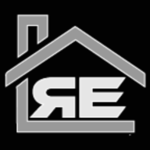
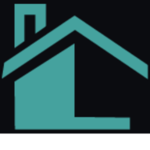
a bunch of styling changes

diff --git a/frontend/src/components/PublicGetStarted/Opening.js b/frontend/src/components/PublicGetStarted/Opening.js
@@ -71,7 +71,7 @@ class Opening extends Component {
                                         </div>
                                         <div className="col-12 col-lg-3 d-flex align-items-center justify-content-end px-0">
                                             
-                                               <button onClick={()=>this.submitStayInformedInformation()} className="btn-primary btn btn-block btn-lg btn-map">Submit</button>
+                                               <button onClick={()=>this.submitStayInformedInformation()} className="btn-main btn btn-block btn-lg btn-map">Submit</button>
 
                                         </div>
                                     </div>
@@ -91,7 +91,7 @@ class Opening extends Component {
                             <h2 className="mar-top mar-bottom">References</h2>
                             <p>Many things can be discovered about your neighborhood using online tools, but the personality, and the life style can't. And that 'feel' is critical to making a good home choice. You are key to helping people make good decisions about homes in your neighborhood. Be their insider, their neighborhood reference with insight into living, working and recreating where you live. You simply give of your time to answer questions and you get paid for helping. Sign up to get notified when we expand.</p>
                             <Link to="/PublicReference">
-                            <button className="btn btn-primary">Learn More
+                            <button className="btn btn-main">Learn More
                             </button>
                             </Link>
                         </div>
@@ -100,7 +100,7 @@ class Opening extends Component {
                             <h2 className="mar-top mar-bottom">Buyers</h2>
                             <p>Buying today typically happens after we read reviews or get references, but such is not the typical case in real estate. We think there is a better way to get quick confirmations about the intangible, qualitative characteristics of a neighborhood that are best discovered by talking to real people who live in your target neighborhood. That is what REBANDS delivers. Real people advising on real decisions so you can buy or rent with confidence. </p>
                             <Link to="/PublicBuyer">
-                            <button className="btn btn-primary">Learn More
+                            <button className="btn btn-main">Learn More
                             </button>
                             </Link>
                         </div>
@@ -109,7 +109,7 @@ class Opening extends Component {
                             <h2 className="mar-top mar-bottom">Sellers</h2>
                             <p>Sell your home in less time with less hassle to someone who is a good fit by providing neighborhood references who can give an arms length, independent perspective about your home and your neighborhood. The same approach exists today in job hiring. It is how good decisions are made and our platform makes it easy to invite your neighbors to become references. They will get paid and it costs you nothing. Sign up to got notified as we expand into your neighborhood.</p>
                             <Link to="/PublicSeller">
-                            <button className="btn btn-primary">Learn More
+                            <button className="btn btn-main">Learn More
                             </button>
                             </Link>
                         </div>

diff --git a/frontend/src/components/Shared/Nav.js b/frontend/src/components/Shared/Nav.js
@@ -5,7 +5,7 @@ import {getUserInfo, logout, getInformantInfo, getBuyerInfo} from '../../ducks/r
 import Modal from 'react-modal';
 import SignupFormValidation from './SignupFormValidation';
 
-import logo from './images/logo-greenish.png'
+import logo from './images/logo.png'
 
 import {getOrderResultsbyBuyer} from '../../ducks/reducers/order';
 
@@ -78,7 +78,7 @@ class Nav extends Component {
                 <nav className="navbar navbar-expand-lg navbar-dark nav-container transparent-nav">
 
                     <div className="container-fluid body">
-                        <Link to={"/"}><img className="logo img-responsive" src={logo} alt="RE Informants"/></Link>
+                        <Link to={"/"}><img className="logo img-responsive" src={logo} alt="REBANDS neighborhood references"/></Link>
                         {/* <a className="navbar-brand" href="/"><img className="logo img-responsive" src={logo} alt="RE Informants"/></a> */}
                         <button onClick={this.toggleNavbar} className={`${classTwo}`} type="button" data-toggle="collapse" data-target="#navbarResponsive" aria-controls="navbarResponsive" aria-expanded="false" aria-label="Toggle navigation">
                         <span className="navbar-toggler-icon" />
@@ -87,9 +87,9 @@ class Nav extends Component {
                         <div className={`${classOne}`} id="navbarResponsive">
 
                             <ul className="navbar-nav ml-auto">
-                                <li className="nav-item">
+                                {/* <li className="nav-item">
                                     <Link className="nav-link navsize float-right" to="/PublicGetStarted">Get Started</Link>
-                                </li>
+                                </li> */}
                                 <li className="nav-item">
                                     <Link className="nav-link navsize float-right" to="/PublicReference">References</Link>
                                 </li>  
@@ -104,9 +104,9 @@ class Nav extends Component {
                                 </li>
                                  
                             </ul>
-                            <a href={process.env.REACT_APP_LOGIN}><button className="btn 
-                            btn-primary float-right" onClick={this.openSignupForm}>Sign Up</button></a>
-                            <a href={process.env.REACT_APP_LOGIN}><button className="btn btn-default float-right" >Login</button></a>
+                            {/* <a href={process.env.REACT_APP_LOGIN}><button className="btn 
+                            btn-main float-right" onClick={this.openSignupForm}>Sign Up</button></a>
+                            <a href={process.env.REACT_APP_LOGIN}><button className="btn btn-default float-right" >Login</button></a> */}
                             </div>
                                 :
                             <div className={`${classOne}`} id="navbarResponsive">

diff --git a/frontend/src/components/PrivateInformant/kellerchch.js b/frontend/src/components/PrivateInformant/kellerchch.js
@@ -26,11 +26,11 @@ class PrivateInformant extends Component {
                             <div><strong>Age &mdash;</strong> 30-45</div>
                             <div><strong>Profession &mdash;</strong> healthcare IT marketing</div>
                             <div><strong>Status &mdash;</strong> married with 2 boys and 2 girls, ages 16-8</div>
-                            <div><strong>Time in your South Jordan, UT neighborhood &mdash;</strong> 7 years</div>
+                            <div><strong>Time in neighborhood &mdash;</strong> 7 years</div>
                         </div>
 
                             <div class="mar-top text-uppercase">
-                            I live within <strong>2 miles</strong> of the home you are considering.
+                            I live in South Jordan, Utah within <strong>2 miles</strong> of the home you are considering.
                             </div>
                     </div>
                     <div class ="col-md-4 faqs-getstarted">
@@ -38,7 +38,8 @@ class PrivateInformant extends Component {
                             <ol>
                                 <li>Search for a neighborhood reference.</li> 
                                 <li>Text to schedule a call. </li>
-                                <li>Have the call. Ask all your questions. Get quick feedback.</li>
+                                <li>Have the call. Ask all your questions.</li>
+                                <li>Get quick feedback.</li>
                                 <li>Pay a flat fee with Venmo.  </li>
                                 <li>Make your purchase decision</li>
                                 <li>Satisfaction guaranteed. </li>
@@ -68,7 +69,7 @@ class PrivateInformant extends Component {
                         </ul>
                         <h3>Real Estate Experience </h3>
                         <ul>
-                            <li>Bought and sold 3 houses and rented 5 years over 18 years.</li>
+                            <li>Owned 3 homes and was a renter 9 times over the past 18 years.</li>
                             <li>Bought first home in 2005 in Meridian, ID; Sold in 2007 with realtors.</li>
                             <li>Sourced commercial real estate deal in 2006 for large out-of-town investor.</li>
                             <li>Lost money on a speculative venture home in 2006.</li>
@@ -191,7 +192,7 @@ class PrivateInformant extends Component {
                                 <h4>You don't have any inquiries
                                 </h4>
                                 <Link to="/">
-                                <button className="btn btn-primary">
+                                <button className="btn btn-main">
                                     Search for a Buyer
                                 </button>
                                 </Link>

diff --git a/frontend/src/App.css b/frontend/src/App.css
@@ -10,7 +10,8 @@ body {
   padding: 0px;
   font-family: Helvetica, Arial, sans-serif;
   font-size: 16px;
-  background-color: #C5C6C7;   
+  background-color: #C5C6C7;
+  color: #0b0c10;
 }
 .primary-color{
   background-color: #3984D3;
@@ -33,15 +34,33 @@ a {
   color: #cc6600;
 }
 
+a:hover {
+  color: #45A29E;
+}
 
+.col-lg-4{
+  padding-right: 30px;
+  padding-left: 30px;
+}
 
 .btn {
   margin: 5px;
 }
 
-.btn-primary {
+.btn:active:focus {
+  outline: none;
+}
+
+.btn-main {
   background-color: #45A29E;
-  border: #66fcf1;
+  color: white;
+}
+.btn-main:hover {
+  background-color: #254e58;
+}
+
+.btn-main:active {
+  background-color: #2B7A78;
 }
 
 .opening-btn{
@@ -166,6 +185,7 @@ h4 {
   height: 65px;
   text-align: center;
   color: white;
+
 }
 .footer-links {
   padding-bottom: 15px;
@@ -426,14 +446,15 @@ label {
 }
 
 .faqs-getstarted {
-  background-color: #1F2833;
+  /* background-color: #1F2833; */
+  background-color: #4f4a41;
   color: white;
   padding: 20px;
 }
 
 .faqs-why {
-  background-color: #cc6600; 
-  /* orange */
+  background-color: #45A29E; 
+  /* orange was the last color #cc6600 */
   color: white;
   padding: 20px;
   margin-top: 10px;
@@ -460,7 +481,9 @@ label {
   margin-bottom: 40px;
   margin-top: 10px;
   padding: 20px;
-  background-color: #9F9FA3;
+  /* background-color: #9F9FA3; */
+  background-color: #6E6658;
+  color: white;
 }
 
 .call-to-action {

diff --git a/frontend/src/components/Cart/Cart.js b/frontend/src/components/Cart/Cart.js
@@ -61,11 +61,11 @@ class Cart extends Component {
                 </h1>
                 <div className="container"> 
                 <Link to="/PublicGetStarted">
-                    <button className="btn btn-primary">
+                    <button className="btn btn-main">
                         Continue Researching
                     </button>
                 </Link>
-                    <button className="btn btn-primary" onClick={this.openPaymentForm}>
+                    <button className="btn btn-main" onClick={this.openPaymentForm}>
                         Check Out
                     </button>
                 </div>
@@ -131,11 +131,11 @@ class Cart extends Component {
 
                 <div className="container"> 
                 <Link to="/PublicGetStarted">
-                    <button className="btn btn-primary">
+                    <button className="btn btn-main">
                         Continue Researching
                     </button>
                 </Link>
-                    <button className="btn btn-primary" onClick={this.openPaymentForm}>
+                    <button className="btn btn-main" onClick={this.openPaymentForm}>
                         Check Out
                     </button>
                 </div>

diff --git a/frontend/src/components/PublicGetStarted/GetStarted.js b/frontend/src/components/PublicGetStarted/GetStarted.js
@@ -88,8 +88,8 @@ class GetStarted extends Component {
                                 <Search  mysubmit={this.submitStayInformedInformation}/>        
                             </div>
                             <div className="col-12 col-lg-3 d-flex align-items-center justify-content-end px-0">
-                                    {/* <button onClick={()=>this.searchAddress()} className="btn-primary btn btn-block btn-lg btn-map">Search</button> */}
-                                    <button onClick={()=>this.submitStayInformedInformation()} className="btn-primary btn btn-block btn-lg btn-map">Submit</button>
+                                    {/* <button onClick={()=>this.searchAddress()} className="btn-main btn btn-block btn-lg btn-map">Search</button> */}
+                                    <button onClick={()=>this.submitStayInformedInformation()} className="btn-main btn btn-block btn-lg btn-map">Submit</button>
                             </div>
                         </div>
 

diff --git a/frontend/src/components/Shared/Footer.js b/frontend/src/components/Shared/Footer.js
@@ -37,9 +37,9 @@ export default class Footer extends Component {
 
                     <footer id="navbarResponsive" className={`${classOne}`}>
                         <ul className="navbar-nav ml-auto">
-                            <li className="nav-item">
+                            {/* <li className="nav-item">
                                 <Link className="nav-link navsize float-right" to="/PublicGetStarted">Get Started</Link>
-                            </li>
+                            </li> */}
                             <li className="nav-item">
                                 <Link className="nav-link navsize float-right" to="/PublicReference">References</Link>
                             </li>  

diff --git a/frontend/src/components/UserReviews/UserReviews.js b/frontend/src/components/UserReviews/UserReviews.js
@@ -224,7 +224,7 @@ import Modal from 'react-modal';
                 
                     <textarea className="form-control" placeholder={'Write your review here'}type="text" value={this.state.addedReview} onChange={this.handleReviewChange}></textarea>
                     <div style={styles.buttonContainer}>
-                        <button className="btn btn-primary" disabled={this.state.disabled} onClick={()=>this.createReview()}>Submit</button>
+                        <button className="btn btn-main" disabled={this.state.disabled} onClick={()=>this.createReview()}>Submit</button>
                     </div>
                 </div>
                 {this.state.reviews.map((review, index)=>{

diff --git a/frontend/src/components/Shared/Authenticate.js b/frontend/src/components/Shared/Authenticate.js
@@ -69,7 +69,7 @@ export default class Authenticate extends Component {
     // render (){
     //     return(
     //         <div className="container">
-    //             <a href={"http://localhost:4000/auth"}><button className="btn btn-primary" >Sign Up</button></a>
+    //             <a href={"http://localhost:4000/auth"}><button className="btn btn-main" >Sign Up</button></a>
     //                         <a href={"http://localhost:4000/auth"}><button className="btn btn-default" >Login</button></a>
     //                         </div>
     //         </div>

diff --git a/frontend/src/components/AccountProfile/BuyerFormValidation.js b/frontend/src/components/AccountProfile/BuyerFormValidation.js
@@ -27,7 +27,7 @@ const BuyerFormValidation = props=>{
                     <Field name="buyernotes" component="textarea"/>
                 </div>
             </div>
-            <button className="btn btn-primary" type = "submit" disabled={pristine || submitting}>{buyerInfo?'Submit Changes':'Submit'}</button>
+            <button className="btn btn-main" type = "submit" disabled={pristine || submitting}>{buyerInfo?'Submit Changes':'Submit'}</button>
             <button className="btn btn-danger" onClick={cancel}>Cancel</button>
         </form>
     )

diff --git a/frontend/src/components/AccountProfile/InformantFormValidation.js b/frontend/src/components/AccountProfile/InformantFormValidation.js
@@ -105,7 +105,7 @@ const InformantFormValidation = props=>{
                         component="textarea"/>
                 </div>
             </div>
-            <button className="btn btn-primary" type = "submit" disabled={pristine || submitting}>{informantInfo?'Submit Changes':'Submit'}</button>
+            <button className="btn btn-main" type = "submit" disabled={pristine || submitting}>{informantInfo?'Submit Changes':'Submit'}</button>
             <button className="btn btn-danger" onClick={cancel}>Cancel</button>
         </form>
     )

diff --git a/frontend/src/components/AccountProfile/AccountProfile.js b/frontend/src/components/AccountProfile/AccountProfile.js
@@ -204,7 +204,7 @@ class AccountProfile extends Component {
                 </h4>
                     <button className="btn btn-default" onClick={this.openInformantForm}>Edit Informant Profile</button>
                     <Link to="/">
-                                    <button className="btn btn-primary">
+                                    <button className="btn btn-main">
                                         Search for a buyer
                                     </button>
                     </Link>
